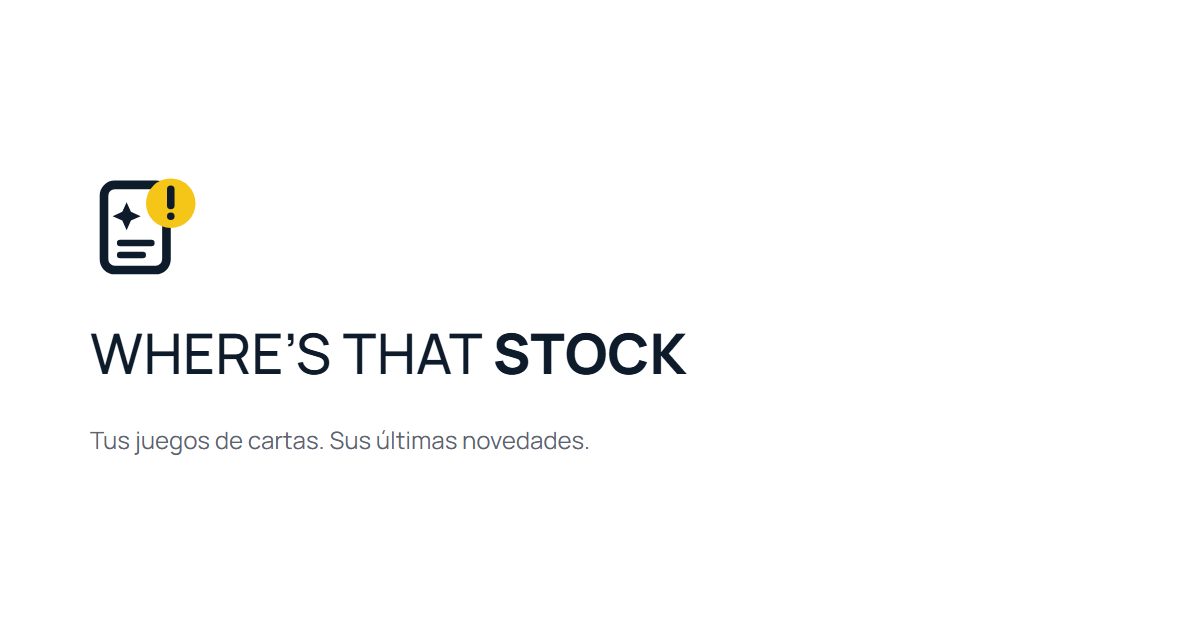
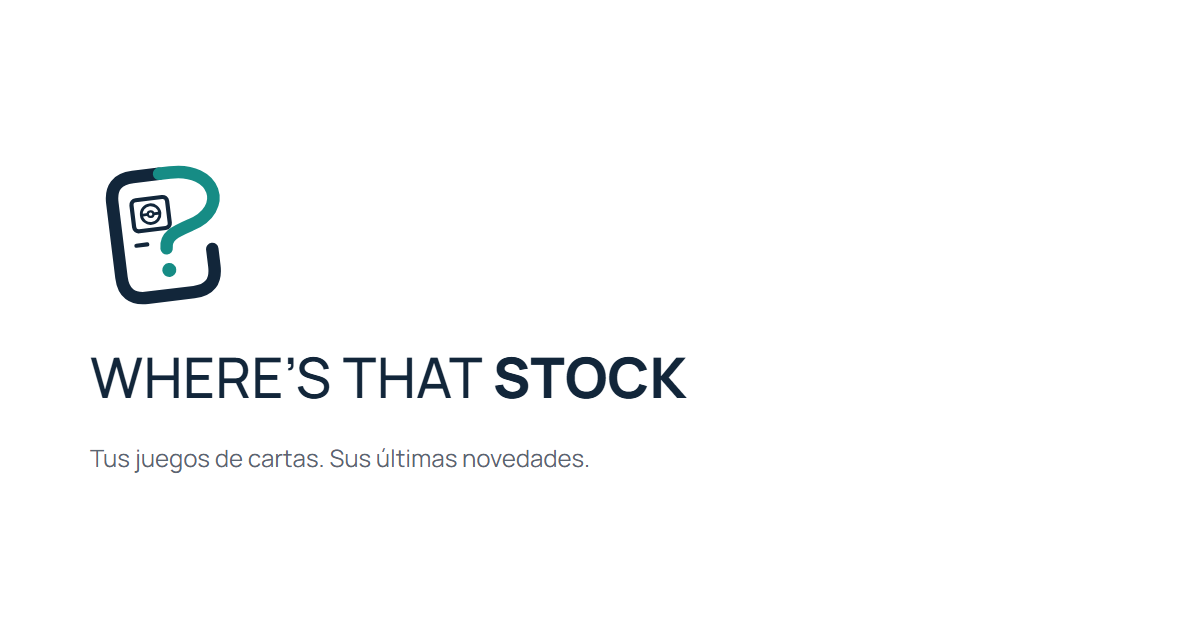
feat: adopt question-card identity for web and community

Changed region(s): [[0.0617, 0.5127, 0.5858, 0.6333], [0.0617, 0.6937, 0.4933, 0.754], [0.0617, 0.2413, 0.185, 0.4825]]

diff --git a/styles.css b/styles.css
@@ -1142,7 +1142,7 @@ footer { border-top: 1px solid var(--border); font-weight: 400; padding: 36px 24
 @media (max-width: 520px) { .product-image-frame .product-image { padding: 14px; } }
 @media (prefers-reduced-motion: reduce) { .product-image-frame .product-image, .product-image-placeholder { transition: none; } }
 
-/* Approved identity: Manrope uppercase, monochrome name and card alert symbol. */
+/* Approved identity: Manrope uppercase, monochrome name and question-card symbol with a Poké Ball illustration. */
 @font-face {
   font-family: "WTS Manrope";
   src: url("/assets/brand/manrope-latin.woff2") format("woff2");
@@ -1152,11 +1152,11 @@ footer { border-top: 1px solid var(--border); font-weight: 400; padding: 36px 24
 }
 .brand-name { font-family: "WTS Manrope", Inter, sans-serif; font-size: 1.18rem; font-weight: 500; letter-spacing: .005em; text-transform: uppercase; line-height: 1.2; }
 .brand-name .accent { font-weight: 800; color: inherit; text-decoration: none; -webkit-text-stroke: 0; }
-.brand-logo { width: 42px; height: 42px; object-fit: contain; border-radius: 8px; padding: 3px; background: #fff; }
+.brand-logo { width: 48px; height: 48px; object-fit: contain; border-radius: 8px; padding: 0; background: #fff; }
 @media (max-width: 520px) {
   .brand { gap: 9px; }
   .brand-name { font-size: clamp(.85rem, 3.7vw, 1.1rem); }
-  .brand-logo { width: 36px; height: 36px; }
+  .brand-logo { width: 42px; height: 42px; }
 }
 
 .utility-button { display: inline-flex; align-items: center; justify-content: center; gap: 6px; min-height: 40px; padding: 9px 13px; border: 1px solid var(--border); border-radius: 8px; background: var(--card, var(--bg)); color: var(--fg); font: inherit; font-size: .8rem; cursor: pointer; text-decoration: none; }

diff --git a/assets/brand/README.md b/assets/brand/README.md
@@ -1,0 +1,13 @@
+# Where’s That Stock · Identidad aprobada
+
+Símbolo: carta inclinada cuyo borde forma una interrogación. La Poké Ball está dentro del recuadro de ilustración; el punto de la interrogación es circular y sólido.
+
+- `mark.svg`: símbolo para fondo claro; `mark-light.svg`: para fondo oscuro; `mark-mono.svg`: una tinta.
+- `mark-small.svg`: versión sin detalles interiores para 16–32 px. `favicon.svg` añade un fondo blanco para la pestaña del navegador.
+- `telegram-general.png`: avatar general de 1024 × 1024, preparado para el recorte circular de Telegram. El SVG es el original editable.
+- `telegram-*.png`: los avatares de cada juego conservan su diseño aprobado.
+- `social.png`: imagen de 1200 × 630 para compartir enlaces.
+
+Nombre: Manrope 500/800 en mayúsculas. Colores del símbolo: azul #12263A y verde #168C85; en oscuro, blanco y verde #61D4C4. Mantener las proporciones y usar el avatar cuadrado completo al subirlo a Telegram.
+
+Los SVG son editables. La cabecera y las fichas comparten `/assets/brand/mark.svg`; sustituir el archivo actualiza toda la web. La fuente conserva su licencia OFL.
